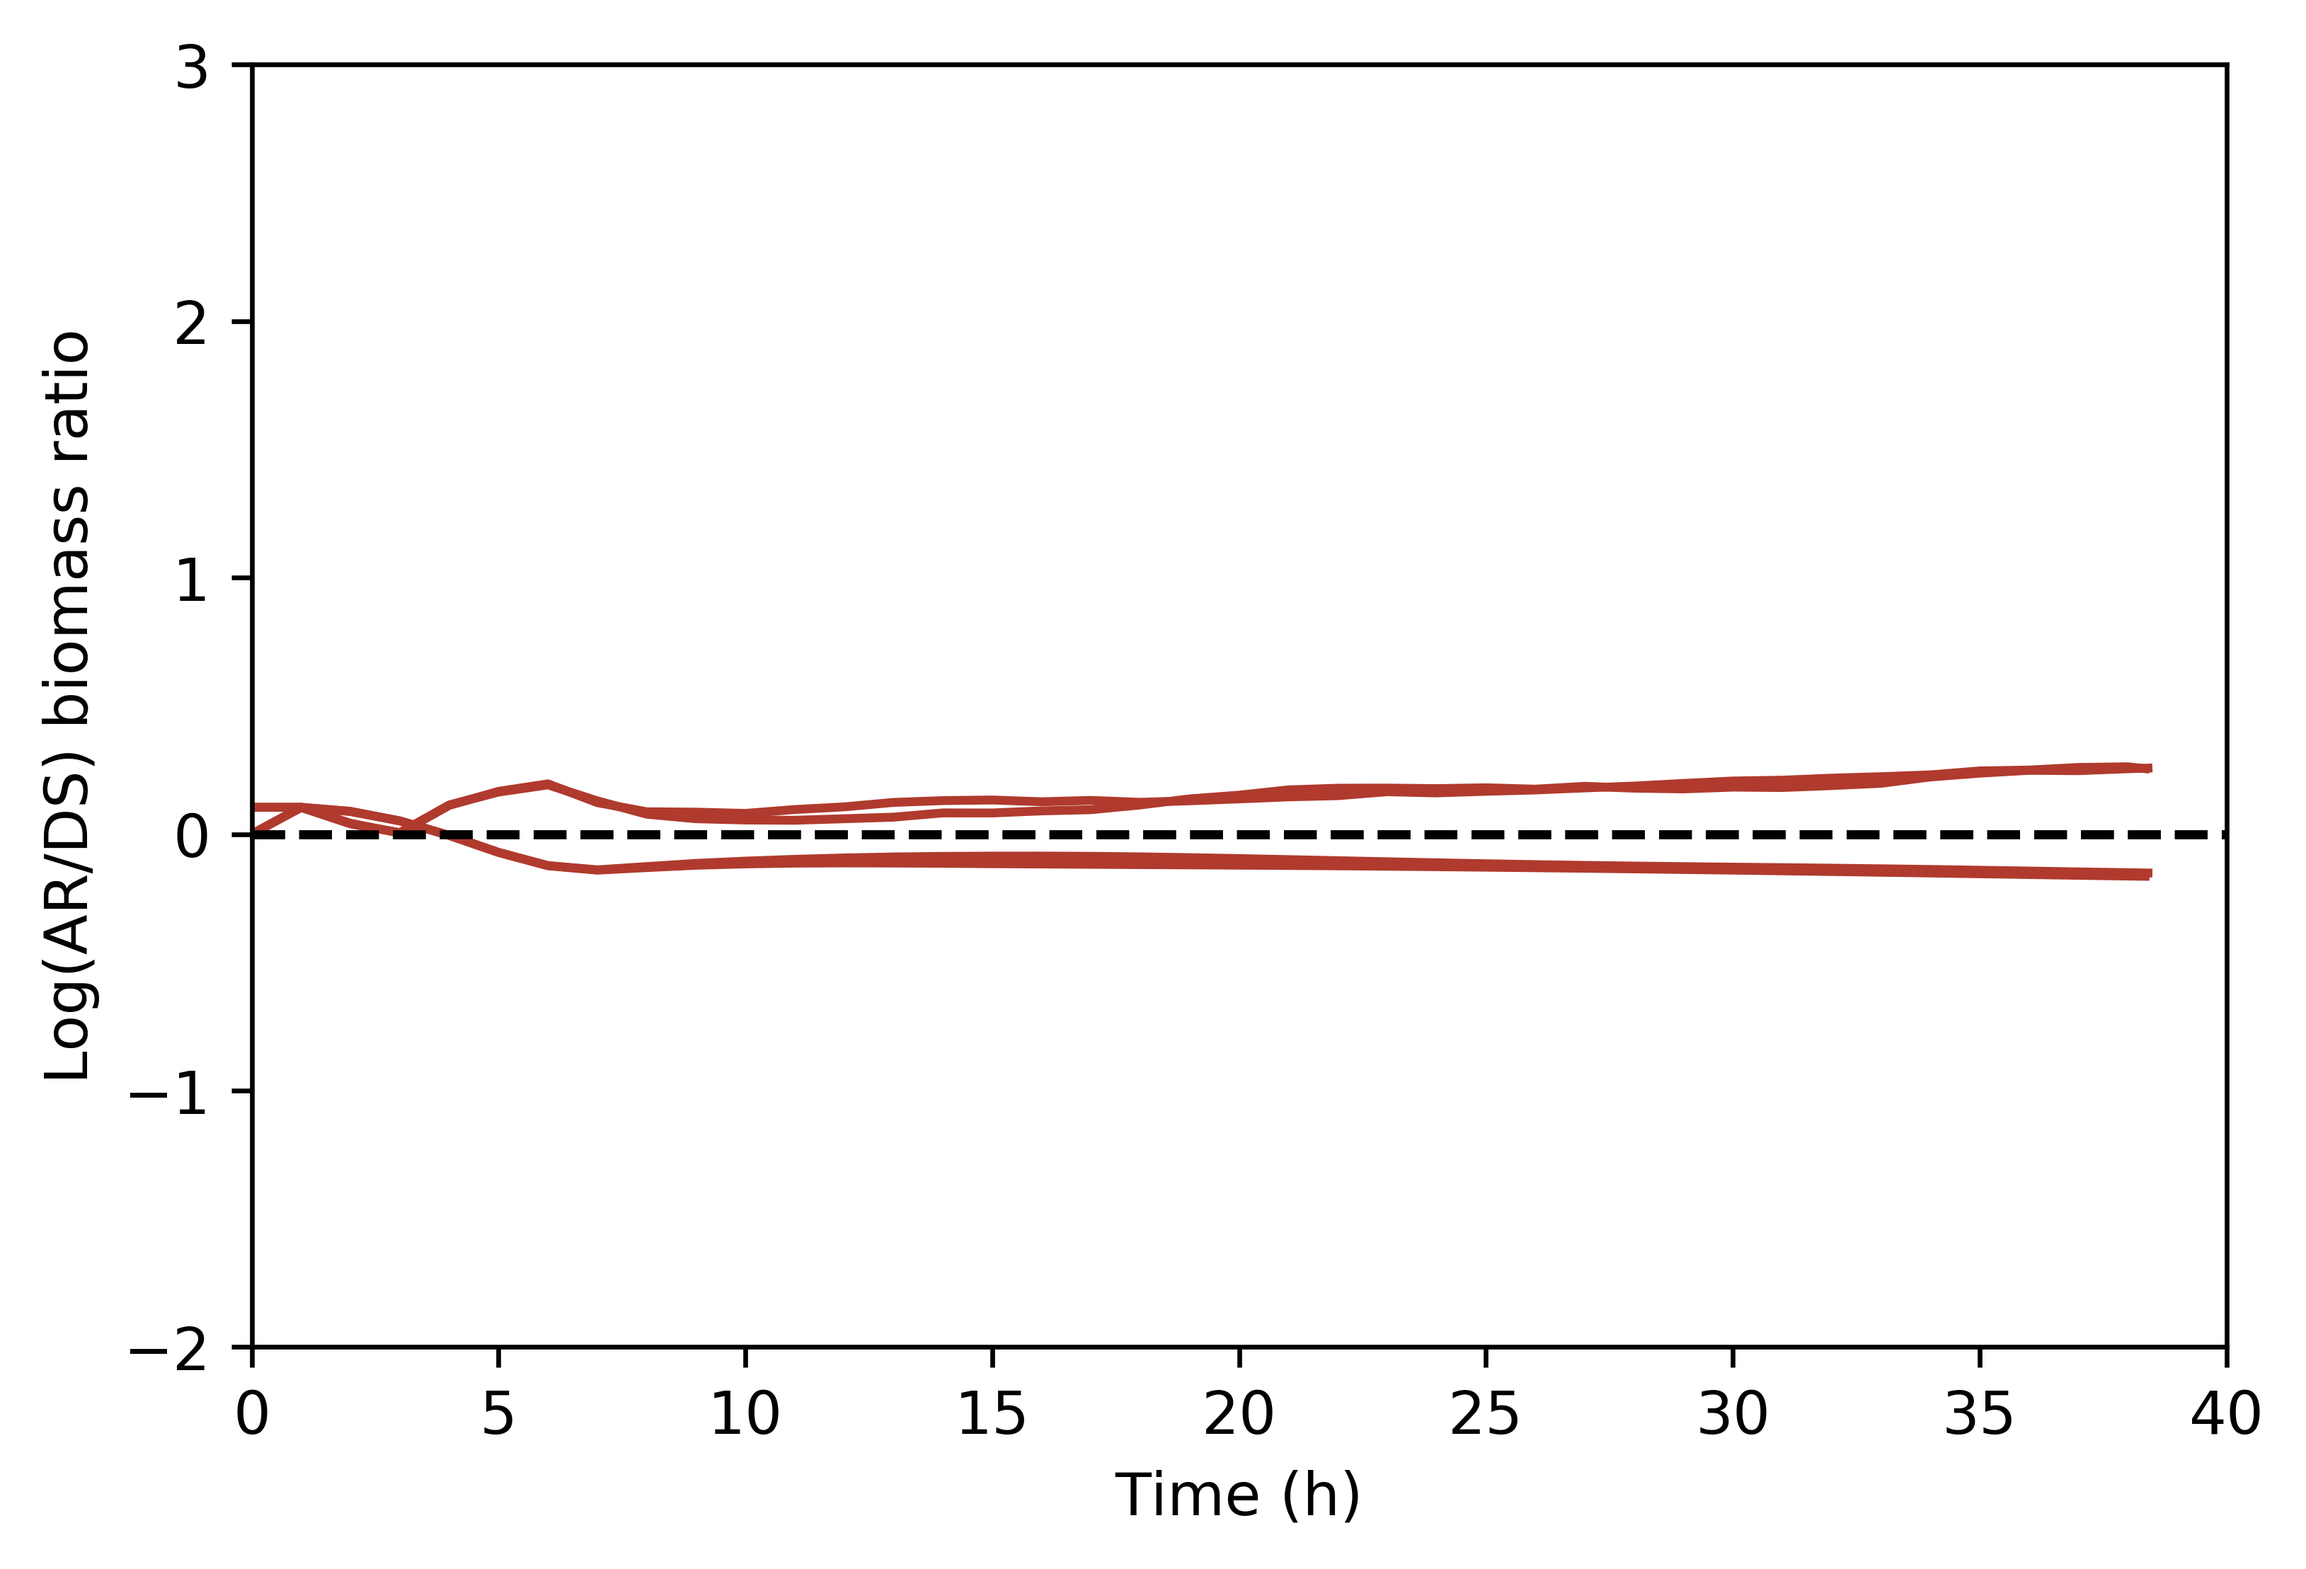
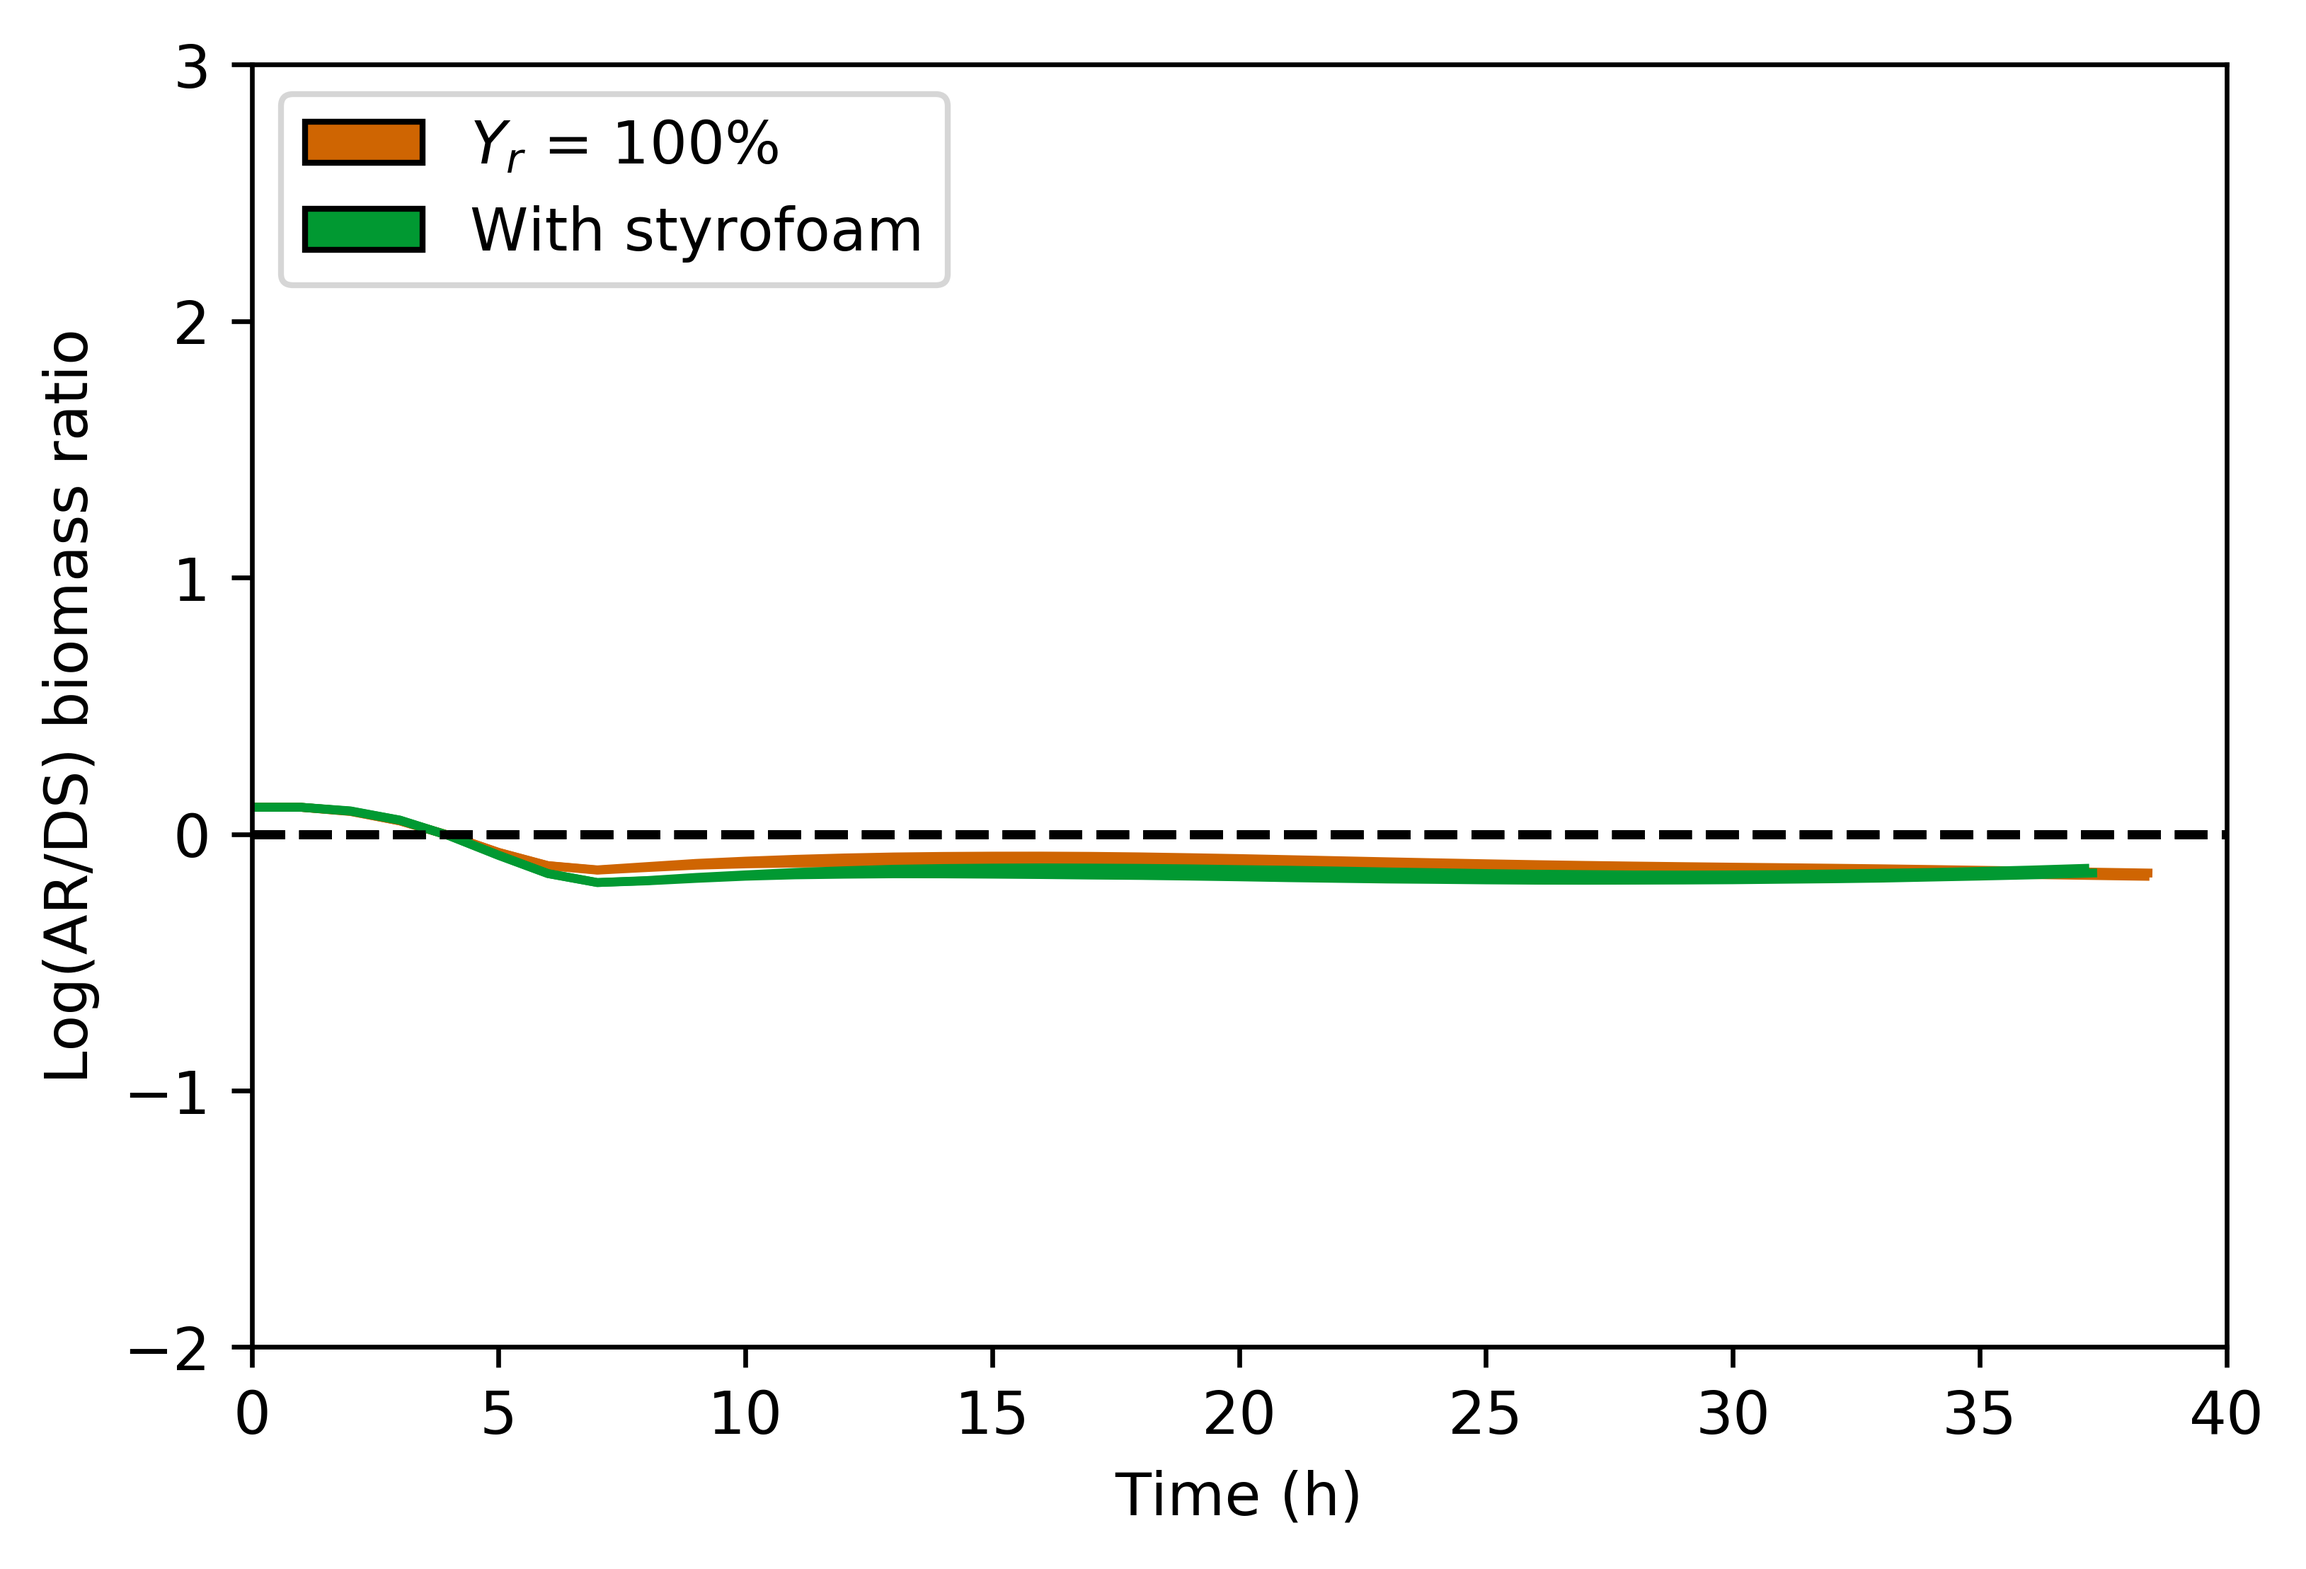
Update 15/07/20

Changed region(s): [[0.093, 0.4668, 0.93, 0.5913], [0.124, 0.0311, 0.403, 0.1867]]

diff --git a/biofilm_manuscript_results_analysis/vary_parameters_prop_biofilm_analysis.py b/biofilm_manuscript_results_analysis/vary_parameters_prop_biofilm_analysis.py
@@ -307,7 +307,7 @@ for f in files:
 #This should be the only parameter to change to switch between growth rate and age plots
 #arate=True - plotting biofilms where cells are colored by age
 #arate=False - plotting biofilms where cells are colored by specific growth rate
-arate=False
+arate=True
 
 """
 #Start of biofilm individual plots
@@ -425,11 +425,11 @@ axs2b, axs3b = plt.subplot2grid((42,8), (26,3), colspan=2, rowspan=4), plt.subpl
 axs2c, axs3c = plt.subplot2grid((42,8), (30,3), colspan=2, rowspan=4), plt.subplot2grid((42,8), (30,5), colspan=2, rowspan=4)
 axs2d, axs3d = plt.subplot2grid((42,8), (34,3), colspan=2, rowspan=4), plt.subplot2grid((42,8), (34,5), colspan=2, rowspan=4)
 axs2e, axs3e = plt.subplot2grid((42,8), (38,3), colspan=2, rowspan=4), plt.subplot2grid((42,8), (38,5), colspan=2, rowspan=4)
-
+"""
 fol = os.listdir('/Users/robynwright/Documents/OneDrive/Papers_writing/Aging of biofilms/Review 2/New simulations/results_files/side_by_side')
 fol_name = '/Users/robynwright/Documents/OneDrive/Papers_writing/Aging of biofilms/Review 2/New simulations/results_files/side_by_side/'
 sets = ['5_Sbulk', '6_Ks', '7_aging']
-
+"""
 ax = [[axs1a, axs1b, axs1c, axs1d, axs1e], [axs2a, axs2b, axs2c, axs2d, axs2e], [axs3a, axs3b, axs3c, axs3d, axs3e]]
 axs1a.set_title('Substrate concentration'), axs2a.set_title('Substrate affinity'), axs3a.set_title('Proportional aging rate')
 axs1a.set_title('H', loc='left', fontweight='bold'), axs2a.set_title('I', loc='left', fontweight='bold'), axs3a.set_title('J', loc='left', fontweight='bold')
@@ -484,10 +484,11 @@ plt.subplots_adjust(hspace=0.65)
 os.chdir('/Users/robynwright/Documents/GitHub/iDynoMiCS_1.5/biofilm_manuscript_results_analysis/vary_parameters')
 plt.savefig('Log specgrowthrate ratios sbs '+calc+'.png', bbox_inches='tight', dpi=600)
 #End of log biomass ratios of side-by-side competitions
-
+"""
 #Individual biofilm plots for side-by-side simulations
 sets = ['5_Sbulk', '5_Sbulk', '6_Ks', '7_aging']
 for a in range(len(sets)):
+    if a != 1: continue
     fig = plt.figure(figsize=(12, 8))
     ax_high = [plt.subplot(2,3,1), plt.subplot(2,3,2)]
     ax_low = [plt.subplot(2,3,4), plt.subplot(2,3,5)]
@@ -502,16 +503,19 @@ for a in range(len(sets)):
         if a == 0:
             if 'ry100' in fol[b]: continue
         elif a == 1:
-            if 'ry100' not in fol[b]: continue
+            if 'ry100' not in fol[b] and 'styrofoam' not in fol[b]: continue
         if sets[a] in fol[b] and '.gif' not in fol[b]:
-            if 'higher' in fol[b]:
+            if 'higher' in fol[b] and 'styrofoam' not in fol[b]:
                 ax = ax_high[hc]
                 hc += 1
                 higher_label = symbol[a+4]+' = '+str(values[a+4][2])+' '+units[a+4]+'\n\n'
-            elif 'lower' in fol[b]:
+            elif 'lower' in fol[b] or 'styrofoam' in fol[b]:
                 ax = ax_low[lc]
                 lc += 1
                 lower_label = symbol[a+4]+' = '+str(values[a+4][1])+' '+units[a+4]+'\n\n'
+            if 'styrofoam' in fol[b]:
+                lower_label = 'With styrofoam\n'+symbol[a+4]+' = '+str(values[a+4][2])+' '+units[a+4]+'\n'
+                higher_label = r'$Y_{r}$ = 100%'+'\n'+symbol[a+4]+' = '+str(values[a+4][2])+' '+units[a+4]+'\n'
             plot_biofilm(ax, fol_name+fol[b], arate=arate)
     ax_high[1].text(1.1, 1.05, names[a+4]+'\n', ha='center', va='bottom', fontsize=fs2+2, fontweight='bold', transform=ax_high[0].transAxes)
     ax_high[0].set_ylabel(higher_label+r'y ($\mu$m)', fontsize=fs)
@@ -527,24 +531,28 @@ for a in range(len(sets)):
     else:
         plt.savefig('Side-by-side '+names[a+4]+'_growthRate.png', dpi=600, bbox_inches='tight')
     plt.close()
-"""
+
 
 calc = 'min'
 ax1 = plt.subplot(111)
 fol_name = '/Users/robynwright/Documents/OneDrive/Papers_writing/Aging of biofilms/Review 2/New simulations/results_files/side_by_side/'
-ry100_high_conc = ['5_Sbulk_higher_ry100(20200701_1658)', '5_Sbulk_higher_ry100(20200701_2059)']
-for a in range(2):
+ry100_high_conc = ['5_Sbulk_higher_ry100(20200701_1658)', '5_Sbulk_higher_ry100(20200701_2059)', '5_Sbulk_higher_styrofoam(20200707_1439)', '5_Sbulk_higher_styrofoam(20200707_1737)']
+styrofoam = []
+for a in range(4):
     t_a, [biomass_ratio, population_ratio, growthrate_ratio] = get_biomass_ratios(fol_name, ry100_high_conc[a])
     #t_a, growthrate_ratio = get_specgrowth_ratios(fol_name, ry100_high_conc[a], calc=calc)
-    ax1.plot(t_a, growthrate_ratio, color='#B03A2E')
-    ax1.plot(t_a, biomass_ratio, color='#B03A2E')
+    color = '#CF6502'
+    if a > 1: color = '#019932'
+    #ax1.plot(t_a, growthrate_ratio, color=color)
+    ax1.plot(t_a, biomass_ratio, color=color)
     ax1.plot([0,40], [0,0], 'k--')
     ax1.set_xlim([0, 40])
     ax1.set_ylim([-2, 3])
     ax1.set_xlabel('Time (h)')
     #ax1.set_ylabel('Log(AR/DS) specific growth rate')
     ax1.set_ylabel('Log(AR/DS) biomass ratio')
+handles = [Patch(facecolor='#CF6502', edgecolor='k', label=r'$Y_{r}$ = 100%'), Patch(facecolor='#019932', edgecolor='k', label='With styrofoam')]
+ax1.legend(handles=handles, loc='upper left', bbox_to_anchor=(0,1))
 os.chdir('/Users/robynwright/Documents/GitHub/iDynoMiCS_1.5/biofilm_manuscript_results_analysis/vary_parameters')
 #plt.savefig('Yr100 specific growthrate '+calc+'.png', dpi=600, bbox_inches='tight')
 plt.savefig('Yr100 biomass.png', dpi=600, bbox_inches='tight')    
-    
